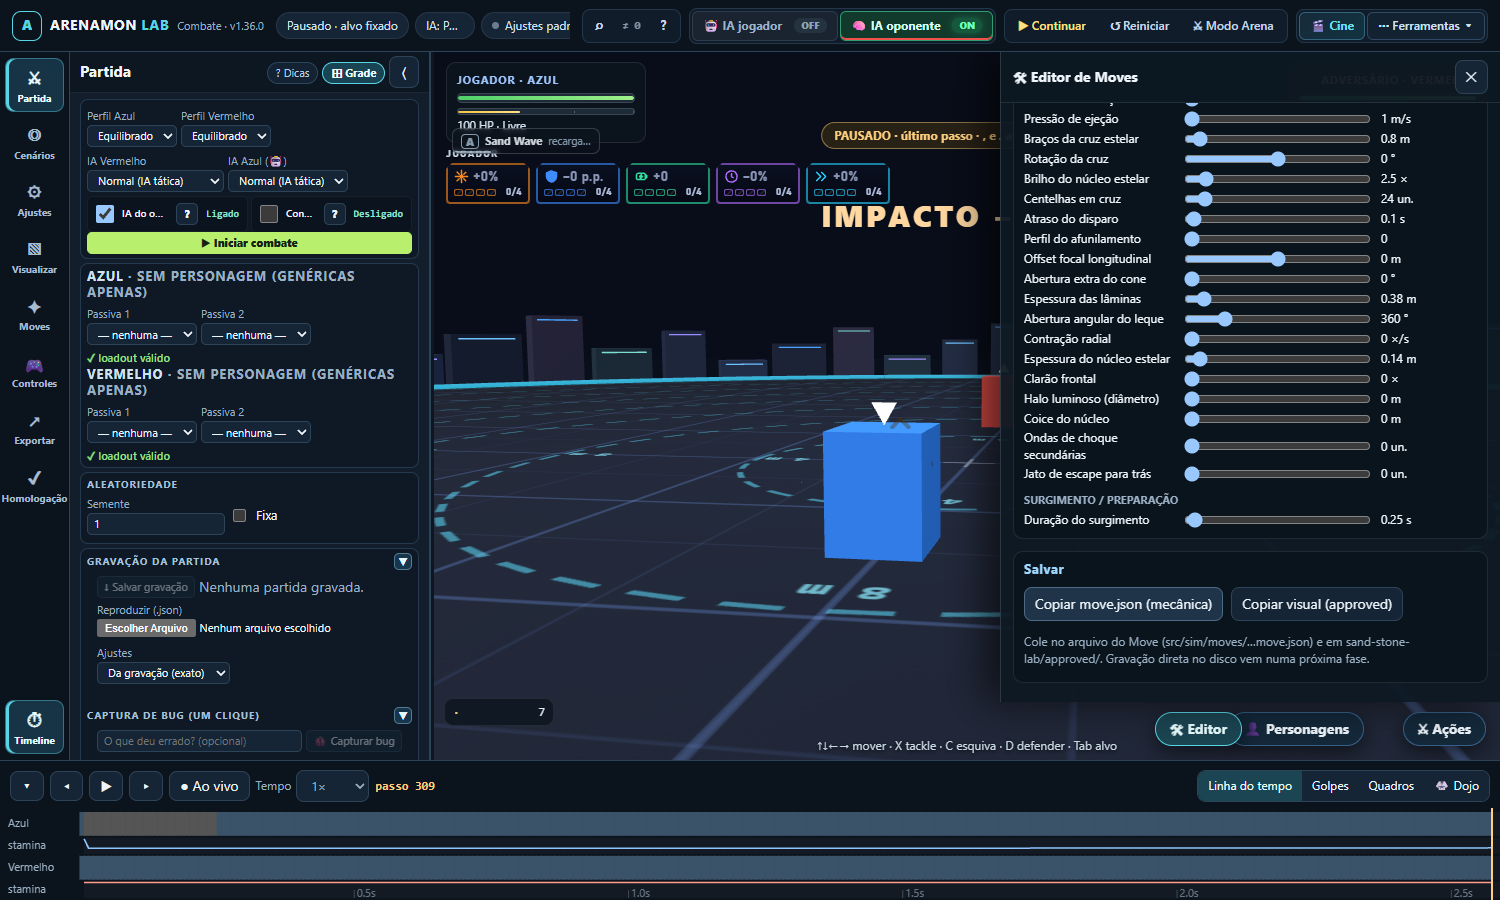
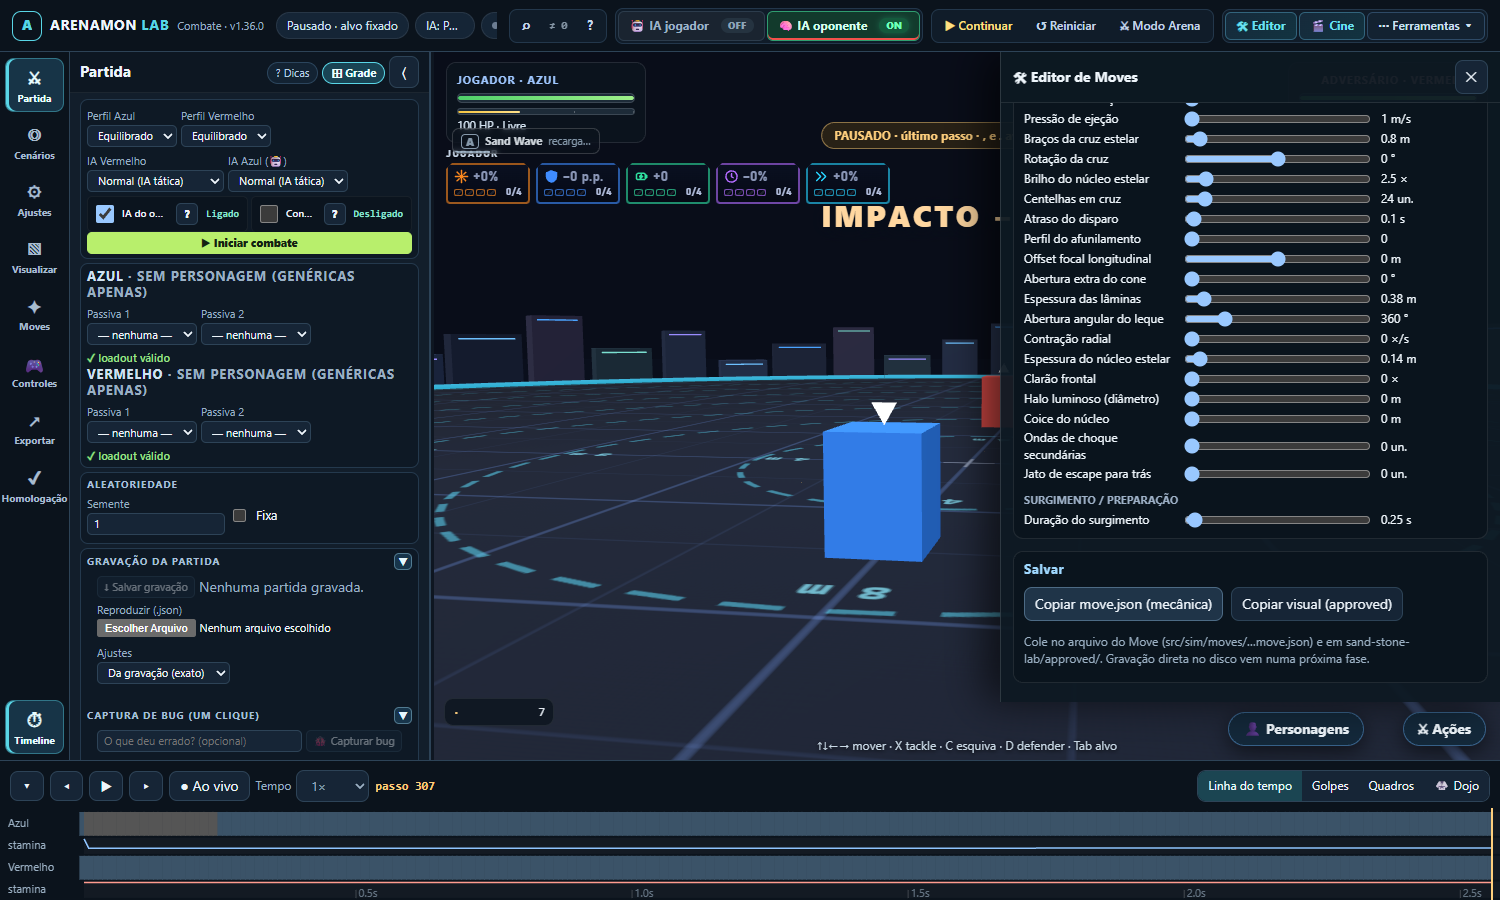
fix(editor-de-moves): botao Editor na barra superior (o do canto cobria Iniciar combate e quebrava verify/overhaul); evidencia e doc atualizados

Changed region(s): [[0.3067, 0.0, 0.8893, 0.0622], [0.7667, 0.7778, 0.828, 0.84]]

diff --git a/prototypes/combat-lab/src/template.html b/prototypes/combat-lab/src/template.html
@@ -45,6 +45,7 @@
     <button type="button" id="arena-zen-toggle" role="switch" aria-checked="false" title="Modo Arena (F2): tela cheia limpa para focar no combate">⚔ Modo Arena</button>
    </div>
    <div class="btn-group top-group-actions">
+    <button type="button" id="editor-open" class="cine-btn" aria-expanded="false" aria-controls="move-editor" title="Editor de Moves: executa o Move na arena e ajusta mecânica e visual">🛠 Editor</button>
     <button type="button" id="cinematic-camera-btn" class="cine-btn" aria-haspopup="dialog" title="Câmera Cinemática (estilo anime/ZZZ: inclinações, enquadramentos, impact frames e FOV)">🎬 Cine</button>
     <button type="button" id="tools-toggle" aria-haspopup="true" aria-expanded="false" title="Assistência, IA, câmera, depuração e som">⋯ Ferramentas ▾</button>
    </div>
@@ -398,7 +399,6 @@
     </div></div>
    </aside>
    <button type="button" id="moves-open" class="corner-btn" aria-expanded="false" aria-controls="moves-drawer" title="Ações: equipar Moves, escolher botões e animações; parâmetros e VFX ficam nas abas da esquerda">⚔ Ações</button>
-   <button type="button" id="editor-open" class="corner-btn corner-btn-editor" aria-expanded="false" aria-controls="move-editor" title="Editor de Moves: executa o Move na arena e ajusta mecânica e visual">🛠 Editor</button>
    <aside id="move-editor" class="moves-drawer move-editor" hidden aria-label="Editor de Moves"><header><strong>🛠 Editor de Moves</strong><button type="button" id="editor-close" aria-label="Fechar o Editor de Moves" title="Fechar (Esc)">✕</button></header><div id="move-editor-body"></div></aside>
    <aside id="moves-drawer" class="moves-drawer" hidden aria-label="Ações"><header><strong>⚔ Ações</strong><button type="button" id="moves-close" aria-label="Fechar Ações" title="Fechar (Esc)">✕</button></header><nav id="act-tabs" class="act-tabs" aria-label="Seções das ações"><button type="button" data-act="moves" aria-pressed="true">✦ Moves</button><button type="button" data-act="tackle" aria-pressed="false">💥 Tackle</button><button type="button" data-act="dodge" aria-pressed="false">💨 Esquiva</button><button type="button" data-act="jump" aria-pressed="false" title="Salto 3D (coyote, buffer, controle aéreo) e Footstool">🦘 Salto</button><button type="button" data-act="block" aria-pressed="false">🛡 Bloqueio</button><button type="button" data-act="ai" aria-pressed="false" title="IA: modos, personalidade, estratégia e decisões com Moves">🤖 IA</button></nav><label class="check act-sync" title="O fim do movimento (X, C, recuo, guard stun, pouso e o cast dos Moves com animação própria) passa a durar o que o clipe de animação dura ÷ velocidade, e só então libera outras ações. Mesma opção de Personagens › avançado."><input type="checkbox" id="act-sync"> Término do movimento trava outras ações pela duração da animação</label><div class="act-views"><div id="act-moves" hidden></div><div id="act-tackle" hidden></div><div id="act-dodge" hidden></div><div id="act-jump" hidden></div><div id="act-block" hidden></div><div id="act-ai" hidden></div></div></aside>
     <div id="offscreen-arrow" hidden><span class="arrow-icon">◀</span> <span class="arrow-dist"></span></div>

diff --git a/prototypes/combat-lab/src/styles.css b/prototypes/combat-lab/src/styles.css
@@ -929,7 +929,6 @@ button.onoff[aria-checked=true]::after{content:'ON';background:#14593c;color:#72
 .mv-tl-seek{margin-left:6px;padding:0 6px;font-size:10.5px}
 
 /* Editor de Moves (fase 2) */
-.corner-btn-editor{right:258px}
 .move-editor #move-editor-body{flex:1;min-height:0;overflow:auto;padding:10px 12px 20px;display:flex;flex-direction:column;gap:12px}
 .move-editor .editor-sec{border:1px solid #ffffff18;border-radius:10px;padding:8px 10px;display:flex;flex-direction:column;gap:6px;background:#0a141d}
 .move-editor h4{margin:0 0 2px;font-size:13px;letter-spacing:.04em;color:#9fd8ff}
@@ -940,5 +939,5 @@ button.onoff[aria-checked=true]::after{content:'ON';background:#14593c;color:#72
 .move-editor .editor-actions{display:flex;gap:8px;flex-wrap:wrap}
 .move-editor .editor-table{width:100%;border-collapse:collapse;font-size:12px}
 .move-editor .editor-table td,.move-editor .editor-table th{padding:3px 6px;border-bottom:1px solid #ffffff14;text-align:left}
-.lab.zen-mode #editor-open,.lab.zen-mode .move-editor{display:none}
+.lab.zen-mode .move-editor{display:none}
 .move-editor .editor-row.changed span{color:#ffd166}.move-editor .editor-row{grid-template-columns:150px 1fr 66px 22px}.move-editor button.mini{padding:0 4px;min-height:22px}

diff --git a/docs/PLANO_EDITOR_DE_MOVES.md b/docs/PLANO_EDITOR_DE_MOVES.md
@@ -147,5 +147,5 @@ Modo escuro/claro, painel redimensionável e lembrado, janela destacável por pa
 ## Andamento
 
 - **Fase 1 (Move como dado)** — `src/sim/moves/move-data.js` + `sand-wave.move.json`: definição, sliders de mecânica e referência ao visual aprovado num arquivo só. Teste: `test/move-data.test.mjs`.
-- **Fase 2 (editor mínimo)** — botão **🛠 Editor** no canto da arena (ao lado de «Personagens» e «Ações»). Abre a gaveta com: palco (Move, distância do alvo, alvo parado/defendendo, velocidade, repetir em laço), **▶ Executar** (roda o Move de verdade no `World` da partida e mostra dano, cegueira, custo e recarga), sliders de **mecânica** (Ctrl+Z desfaz, ↺ volta ao padrão) e de **visual** (parâmetros aprovados do atelier, valem na sessão), e **Copiar move.json / Copiar visual** para guardar. Código em `src/editor/` (modelo sem interface + painel). Testes: `test/move-editor.test.mjs` (modelo, sem navegador) e `test/move-editor.browser.mjs` (16 verificações no navegador). Evidência: `evidence/editor/editor-sand-wave.png`.
+- **Fase 2 (editor mínimo)** — botão **🛠 Editor** na barra superior (ao lado de «🎬 Cine»). Abre a gaveta com: palco (Move, distância do alvo, alvo parado/defendendo, velocidade, repetir em laço), **▶ Executar** (roda o Move de verdade no `World` da partida e mostra dano, cegueira, custo e recarga), sliders de **mecânica** (Ctrl+Z desfaz, ↺ volta ao padrão) e de **visual** (parâmetros aprovados do atelier, valem na sessão), e **Copiar move.json / Copiar visual** para guardar. Código em `src/editor/` (modelo sem interface + painel). Testes: `test/move-editor.test.mjs` (modelo, sem navegador) e `test/move-editor.browser.mjs` (16 verificações no navegador). Evidência: `evidence/editor/editor-sand-wave.png`.
 - **Limites atuais:** só o Sand Wave está no editor (os demais Moves entram na fase 5); gravar direto no disco, linha do tempo e comparação A/B (fase 3), e a vitrine de Moves na aba (fase 4) ainda não existem.
